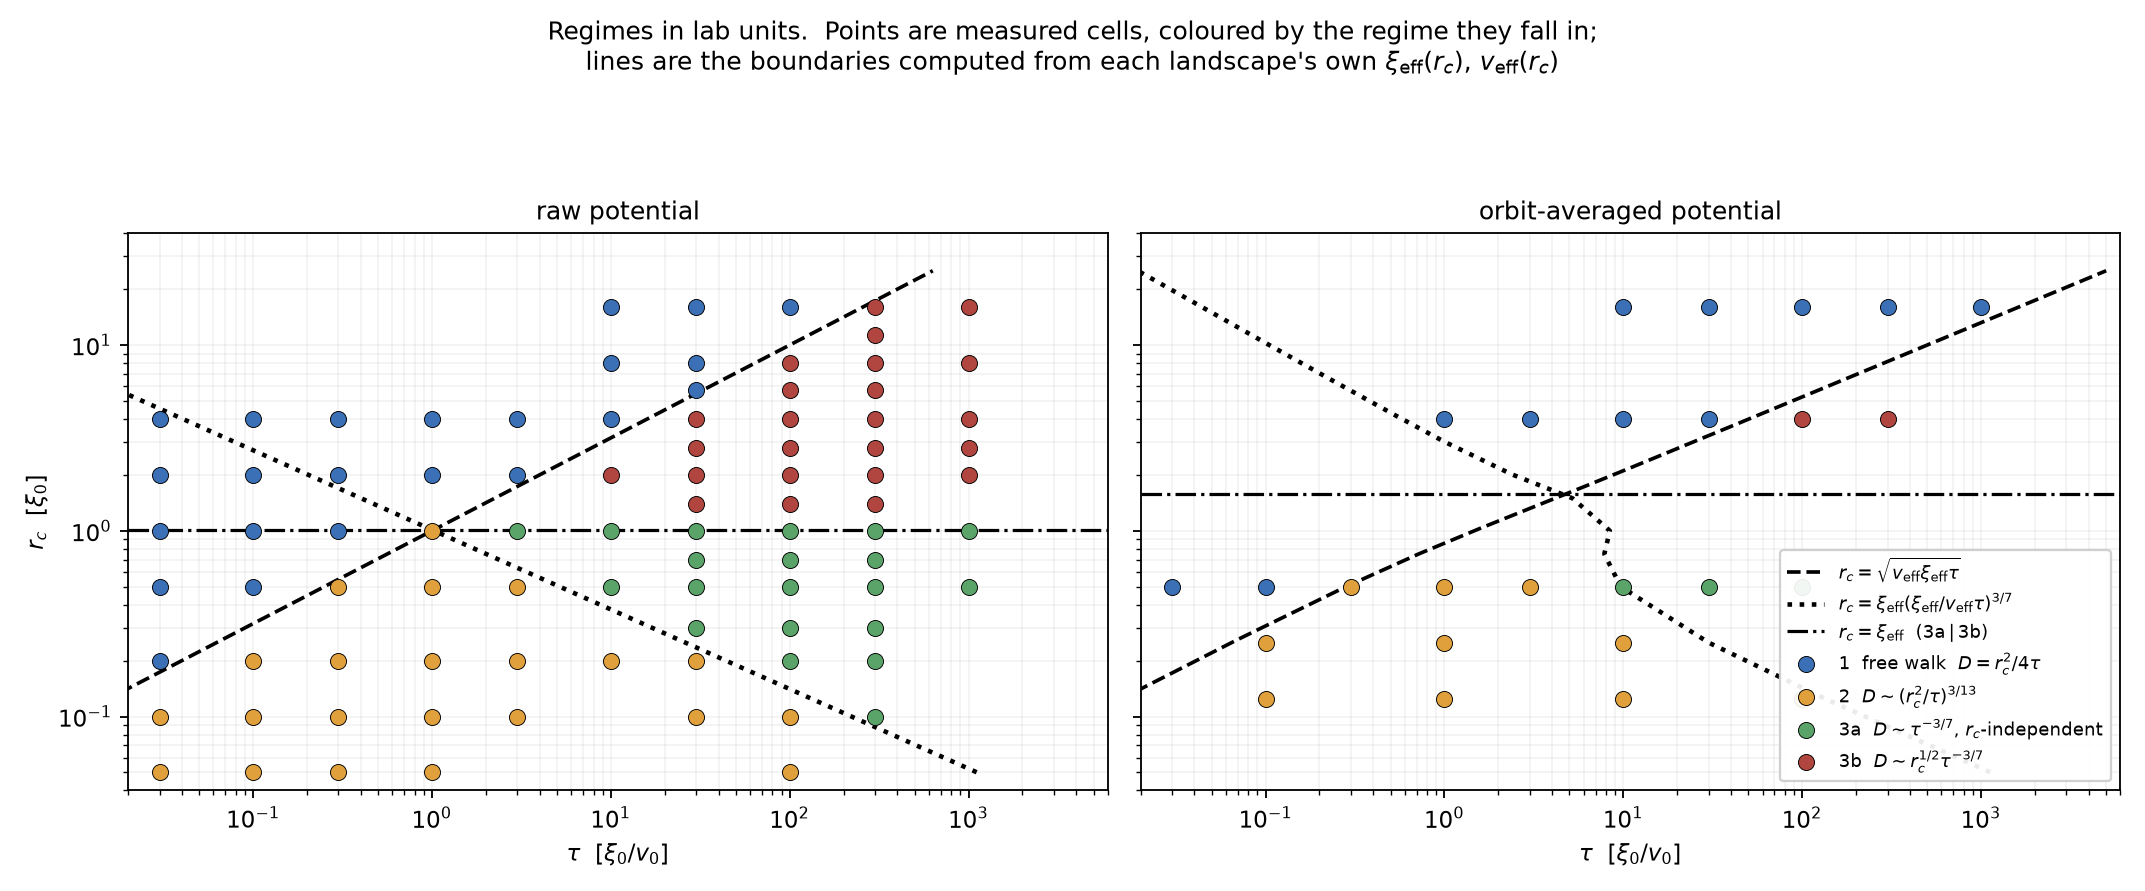
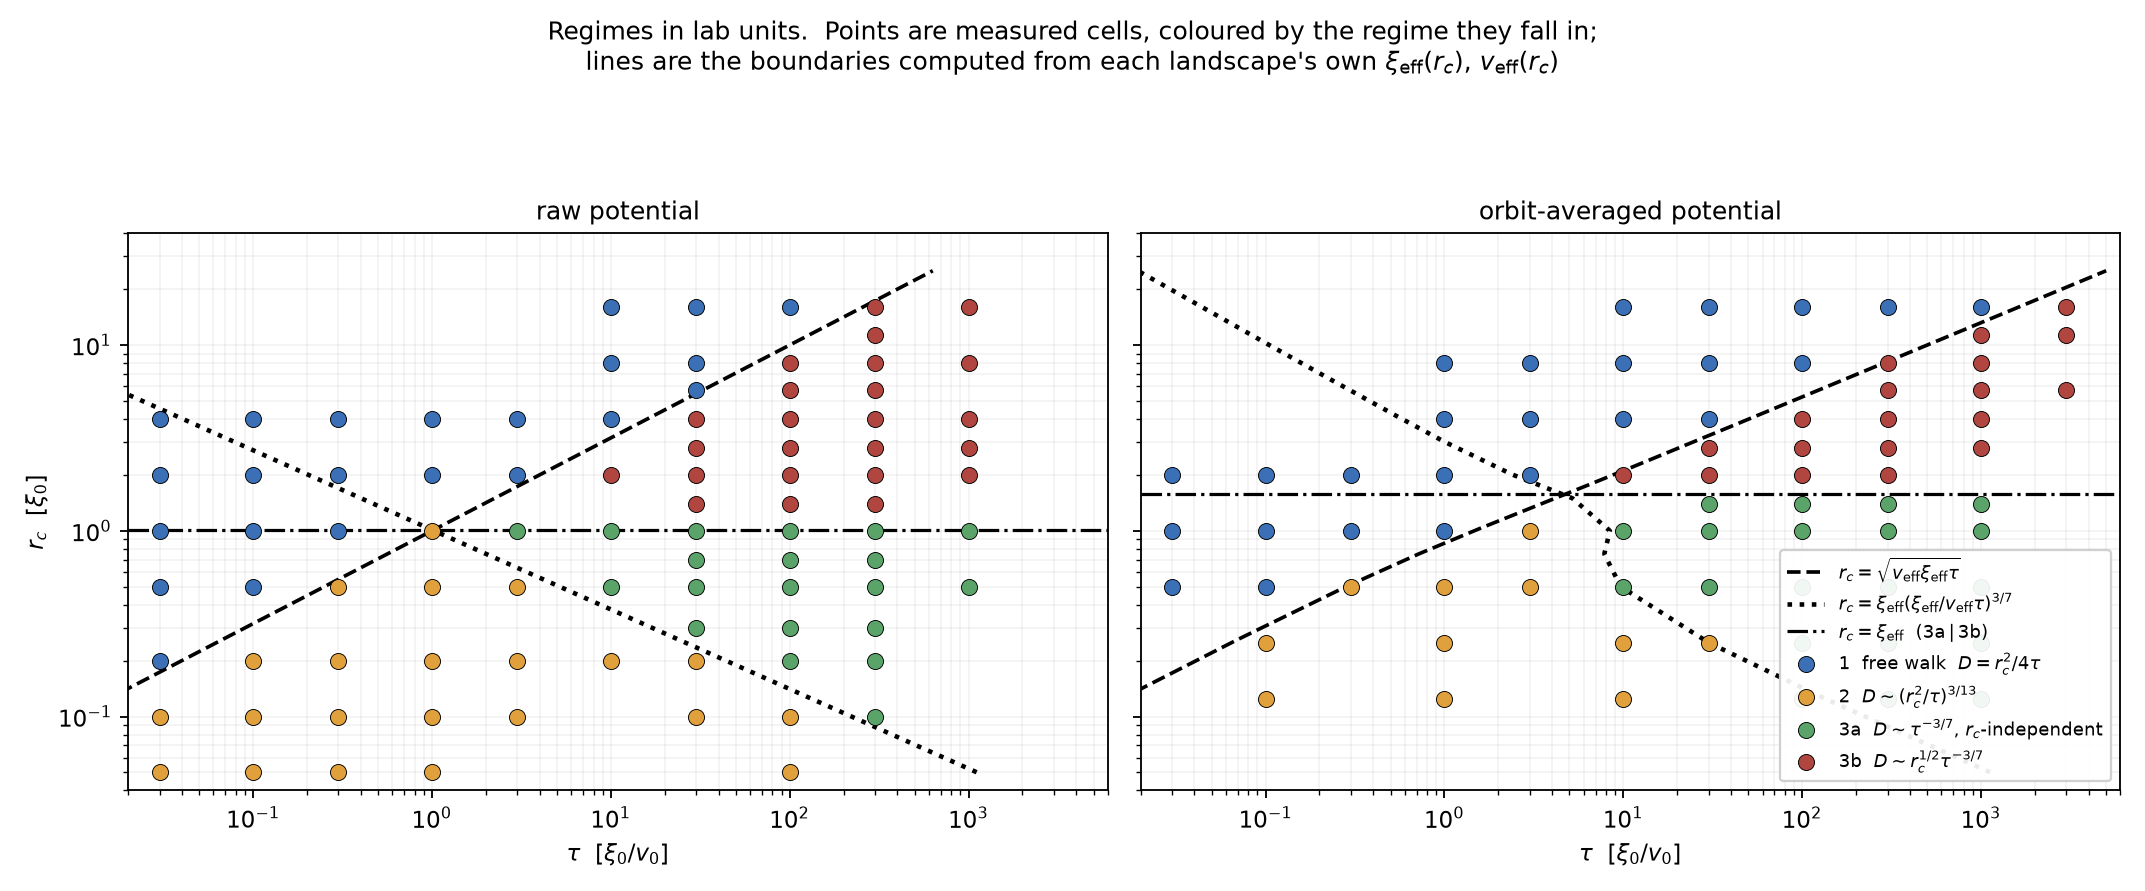
All averaged blocks in: both landscapes collapse onto the same curves
Claude-Session: https://claude.ai/code/session_014ZMGn4Vy6NtGocsp7JQc7r

diff --git a/scripts/analyse_regimes.py b/scripts/analyse_regimes.py
@@ -138,7 +138,7 @@ def powerfit(x, y, sy):
 def main():
     p = argparse.ArgumentParser()
     p.add_argument("--raw", nargs="+", default=sorted(glob.glob("data/grid*.npz")))
-    p.add_argument("--avg", nargs="+", default=sorted(glob.glob("data/avg_[A-Z].npz")))
+    p.add_argument("--avg", nargs="+", default=sorted(glob.glob("data/avg_[A-Z]*.npz")))
     p.add_argument("--margin", type=float, default=0.5)
     p.add_argument("--outdir", default="figures")
     args = p.parse_args()
